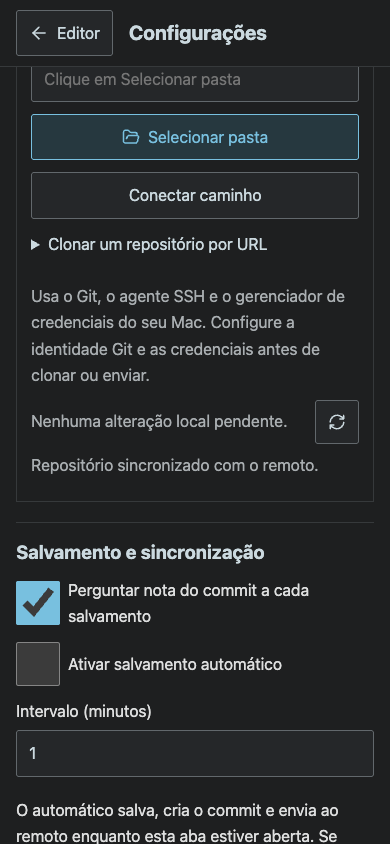
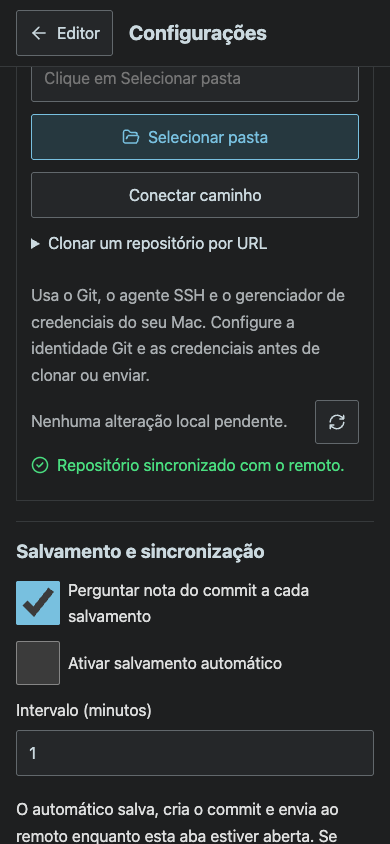
feat: show a positive verified repository connection status

diff --git a/src/main.tsx b/src/main.tsx
@@ -4,7 +4,7 @@ import {canChooseFolder, chooseDeviceFolder, folderLabel, disconnectFolder, auth
 import {browserMode} from './lib/browserStore';
 import { StrictMode, useCallback, useEffect, useRef, useState } from 'react';
 import { createRoot } from 'react-dom/client';
-import { FolderGit2, FolderOpen, Save, Upload, Sun, Moon, FilePlus2, Settings, X, Download, CloudOff, PanelLeft, FileText, RefreshCw, Search, Pin, PinOff, ArrowLeft } from 'lucide-react';
+import { FolderGit2, FolderOpen, Save, Upload, Sun, Moon, FilePlus2, Settings, X, Download, CloudOff, PanelLeft, FileText, RefreshCw, Search, Pin, PinOff, ArrowLeft, CircleCheck, CircleAlert } from 'lucide-react';
 import { MarkdownWorkbench } from './components/Markdown/MarkdownWorkbench';
 import { NoteThumbnail } from './NoteThumbnail';
 import { noteGroup, shortNoteDate } from './lib/noteDates';
@@ -174,6 +174,7 @@ function App() {
   useEffect(() => {if(settingsOpen)settingsTitle.current?.focus();else if(settingsWasOpen.current)document.querySelector<HTMLButtonElement>('button[aria-label="Configurações"]')?.focus();settingsWasOpen.current=settingsOpen;},[settingsOpen]);
   useEffect(() => {const showNotes=()=>setNotesOpen(true);window.addEventListener('scriba:show-notes',showNotes);return()=>window.removeEventListener('scriba:show-notes',showNotes);}, []);
   const [repository, setRepository] = useState<RepositoryInfo>({ repository: null, branch: '', status: '' });
+  const [repositoryConnected, setRepositoryConnected] = useState(false);
   const [directory, setDirectory] = useState('');
   const [url, setUrl] = useState('');
   const [destination, setDestination] = useState('');
@@ -209,7 +210,7 @@ function App() {
   const [commitNoteOpen, setCommitNoteOpen] = useState(false);
   const [commitTarget, setCommitTarget] = useState<'document' | 'repository'>('document');
   const [repositorySyncing, setRepositorySyncing] = useState(false);
-  const [repositorySyncFeedback, setRepositorySyncFeedback] = useState('');
+  const [repositorySyncFeedback, setRepositorySyncFeedback] = useState<{message: string; state: 'syncing' | 'success' | 'error'} | null>(null);
   const [commitNote, setCommitNote] = useState('');
   const [pendingSync, setPendingSync] = useState(false);
   const operationLock = useRef(false);
@@ -234,7 +235,10 @@ function App() {
   }
   async function refresh() {
     if(browserMode && !githubSelection() && await folderLabel()) await api('folder/import',{});
-    const info = await api<RepositoryInfo>('repository'); setRepository(info);
+    let info: RepositoryInfo;
+    try { info = await api<RepositoryInfo>('repository'); }
+    catch (cause) { setRepositoryConnected(false); throw cause; }
+    setRepository(info); setRepositoryConnected(!!info.repository);
     setFiles(info.repository ? await api<string[]>('files') : []);
     if (info.repository) await refreshLibrary(); else { setRecentNotes([]); setPinnedNotes([]); }
     return info;
@@ -261,7 +265,7 @@ function App() {
           setError('O rascunho pertence a outro repositório. Reconecte a pasta nas configurações antes de salvar.');
           setSettingsOpen(true);
         } else {
-          setRepository(info); setFiles(info.repository ? await api<string[]>('files') : []);
+          setRepository(info); setRepositoryConnected(!!info.repository); setFiles(info.repository ? await api<string[]>('files') : []);
           if (info.repository) await refreshLibrary(); else { setRecentNotes([]); setPinnedNotes([]); }
           if (!info.repository) setSettingsOpen(true);
         }
@@ -269,6 +273,7 @@ function App() {
         setPreferences(saved); setPreferenceDraft(saved); setOffline(false);
       } catch (cause) {
         if (!active) return;
+        setRepositoryConnected(false);
         if (cause instanceof LocalApiError) { setError(cause.message); setSettingsOpen(true); setOffline(false); }
         else setOffline(true);
         if (restored) setNotice('Rascunho recuperado no navegador. Continue editando offline; o Git sincroniza quando o aplicativo local voltar.');
@@ -377,13 +382,13 @@ function App() {
     else setError(`Arquivo salvo localmente. ${result.stage === 'commit' ? 'Commit pendente' : 'Push pendente'}: ${result.error} Use Salvar novamente para tentar sincronizar.`);
   }
   async function syncRepository(message: string) {
-    setRepositorySyncing(true); setRepositorySyncFeedback('Sincronizando…');
+    setRepositorySyncing(true); setRepositorySyncFeedback({message: 'Sincronizando…', state: 'syncing'});
     try {
       const result = await api<Pick<SaveResult, 'synced' | 'stage' | 'error'>>('sync', { repository: repository.repository, message });
       await refresh();
-      setRepositorySyncFeedback(result.synced ? 'Repositório sincronizado com o remoto.' : `${result.stage === 'commit' ? 'Commit' : 'Envio'} pendente: ${result.error}`);
+      setRepositorySyncFeedback({message: result.synced ? 'Repositório sincronizado com o remoto.' : `${result.stage === 'commit' ? 'Commit' : 'Envio'} pendente: ${result.error}`, state: result.synced ? 'success' : 'error'});
     } catch (cause) {
-      setRepositorySyncFeedback(cause instanceof Error ? cause.message : 'Não foi possível sincronizar. Tente novamente.');
+      setRepositorySyncFeedback({message: cause instanceof Error ? cause.message : 'Não foi possível sincronizar. Tente novamente.', state: 'error'});
     } finally { setRepositorySyncing(false); }
   }
   function requestRepositorySync() {
@@ -438,12 +443,12 @@ function App() {
     {browserMode && <section className="storage-settings" aria-label="Pasta de notas"><h3>Onde guardar suas notas</h3><p>{deviceFolder ? `Pasta selecionada: ${deviceFolder}` : 'Armazenamento privado neste navegador'}</p>{githubSelection() && <p>Repositório: <a href={`https://github.com/${githubSelection()!.fullName}`} target="_blank" rel="noopener noreferrer">{githubSelection()!.fullName}</a></p>}{canChooseFolder() ? <div className="settings-actions"><button disabled={busy} onClick={() => {if(!discard())return;void run(async () => {const label=await chooseDeviceFolder();setGitHubSelection(null);resetDocument();setDeviceFolder(label);const count=await importDeviceNotes();await syncDeviceNotes();setSettingsOpen(false);setNotesOpen(true);setNotice(`${count} notas carregadas. Pasta: ${label}.`);});}}><FolderOpen size={18}/>Selecionar pasta em Files</button>{deviceFolder && <><button disabled={busy} onClick={() => void run(async () => {await authorizeDeviceFolder();const count=await importDeviceNotes();await syncDeviceNotes();setSettingsOpen(false);setNotesOpen(true);setNotice(`Pasta lida: ${count} notas disponíveis na lista.`);})}>Autorizar pasta e carregar notas</button><button onClick={() => void run(async () => {await disconnectFolder();setGitHubSelection(null);resetDocument();await refresh();setDeviceFolder('');})}>Usar somente navegador</button></>}</div> : <p>Este navegador não oferece acesso de gravação a pastas do Files. Suas notas ficam neste navegador; use Baixar pacote para salvar um ZIP em Files. No iPhone/iPad, o acesso contínuo a pastas exige um aplicativo nativo.</p>}<p>Escolha a pasta principal: o Scriba cria uma subpasta scriba e copia as notas salvas e imagens para ela. Rascunhos continuam protegidos no navegador. Arquivos alterados fora do editor não são sobrescritos. GitHub está disponível na seção acima; Google Drive está previsto.</p></section>}
     {browserMode && <section className="repository" aria-label="Sincronização com GitHub e Git"><h3><FolderGit2 size={20}/> GitHub / repositório Git</h3><p>Use um repositório local ou clone uma URL Git. Na versão local, cada salvamento grava o arquivo, cria um commit e faz push usando suas credenciais.</p><div className="settings-actions"><a className="settings-action" href="http://127.0.0.1:43127/" target="_blank" rel="noopener noreferrer">Abrir editor local com Git</a><a className="settings-action" href="https://github.com/ab-orbit/ab-markdow-editor#readme" target="_blank" rel="noopener noreferrer">Instalar no Mac</a></div><p>Abra o aplicativo Scriba no Mac antes de conectar. No editor local, abra Configurações para selecionar a pasta ou clonar o repositório. As notas deste site continuam separadas; use Baixar pacote e importe no editor local para transferi-las.</p><p>No celular e tablet, use a seção GitHub acima para conectar sua conta e selecionar um repositório. O armazenamento no navegador e a pasta do dispositivo continuam como alternativas.</p></section>}
     {!browserMode && <details className="repository" open={!repository.repository || undefined}>
-      <summary><FolderGit2 size={20}/><span>{repository.repository || 'Configurar repositório'}{repository.branch && ` · ${repository.branch}`}</span></summary>
+      <summary className="repository-summary"><span className="repository-summary-content"><span className="repository-path"><FolderGit2 size={20}/><span>{repository.repository || 'Configurar repositório'}{repository.branch && ` · ${repository.branch}`}</span></span>{repository.repository && <span className="connection-status" data-state={repositoryConnected ? 'connected' : 'pending'}>{repositoryConnected ? <CircleCheck size={16} aria-hidden="true"/> : <CircleAlert size={16} aria-hidden="true"/>}{repositoryConnected ? 'Pasta conectada' : draftReady ? 'Conexão indisponível' : 'Verificando conexão…'}</span>}</span></summary>
       {repository.githubUrl && <p>Repositório: <a href={repository.githubUrl} target="_blank" rel="noopener noreferrer">{repository.githubUrl.replace('https://github.com/', '')}</a></p>}
       <fieldset disabled={busy}><form onSubmit={event => { event.preventDefault(); if (!discard()) return; void run(async () => { const info = await api<RepositoryInfo>('connect', { directory }); setRepository(info); resetDocument(); await refresh(); setSettingsOpen(false); setNotice('Repositório conectado.'); }); }}><label>Pasta local do repositório<input placeholder="Clique em Selecionar pasta" value={directory} onChange={event => setDirectory(event.target.value)} required/></label><button type="button" className="primary" onClick={() => void chooseRepository()}><FolderOpen size={18}/>Selecionar pasta</button><button>Conectar caminho</button></form>
       <details><summary>Clonar um repositório por URL</summary><form onSubmit={event => { event.preventDefault(); if (!discard()) return; void run(async () => { const info = await api<RepositoryInfo>('clone', { url, destination }); setRepository(info); resetDocument(); await refresh(); setSettingsOpen(false); setNotice('Repositório clonado e conectado.'); }); }}><label>URL HTTPS ou SSH<input placeholder="git@github.com:usuario/repositorio.git" value={url} onChange={event => setUrl(event.target.value)} required/></label><label>Nova pasta local (caminho absoluto)<input placeholder="/Users/seu-nome/Documentos/meu-repo" value={destination} onChange={event => setDestination(event.target.value)} required/></label><button type="button" onClick={() => void chooseCloneDestination()}><FolderOpen size={18}/>Selecionar onde clonar</button><button>Clonar e conectar</button></form></details>
       <p>Usa o Git, o agente SSH e o gerenciador de credenciais do seu Mac. Configure a identidade Git e as credenciais antes de clonar ou enviar.</p>
-      {repository.repository && <><div className="repository-sync"><p aria-label="Alterações no repositório">{repository.status ? describeRepositoryChanges(repository.status) : 'Nenhuma alteração local pendente.'}</p><button type="button" disabled={busy} aria-label="Sincronizar repositório" title="Sincronizar todas as alterações locais: criar commit e enviar ao remoto" aria-busy={repositorySyncing} onClick={requestRepositorySync}><RefreshCw size={18}/></button></div>{repositorySyncFeedback && <p role="status">{repositorySyncFeedback}</p>}</>}</fieldset>
+      {repository.repository && <><div className="repository-sync"><p aria-label="Alterações no repositório">{repository.status ? describeRepositoryChanges(repository.status) : 'Nenhuma alteração local pendente.'}</p><button type="button" disabled={busy} aria-label="Sincronizar repositório" title="Sincronizar todas as alterações locais: criar commit e enviar ao remoto" aria-busy={repositorySyncing} onClick={requestRepositorySync}><RefreshCw size={18}/></button></div>{repositorySyncFeedback && <p role="status" className="repository-sync-feedback" data-state={repositorySyncFeedback.state}>{repositorySyncFeedback.state === 'success' ? <CircleCheck size={18} aria-hidden="true"/> : repositorySyncFeedback.state === 'error' ? <CircleAlert size={18} aria-hidden="true"/> : <RefreshCw size={18} aria-hidden="true"/>}<span>{repositorySyncFeedback.message}</span></p>}</>}</fieldset>
     </details>}
     <section className="save-preferences" aria-label="Preferências de salvamento">
       <h3>Salvamento e sincronização</h3>

diff --git a/src/style.css b/src/style.css
@@ -207,3 +207,21 @@ body { font-family: var(--font-ui); }
 .repository-sync { display: flex; align-items: flex-start; gap: 12px; margin-top: 12px; }
 .repository-sync p { flex: 1; margin: 8px 0; min-width: 0; white-space: pre-wrap; overflow-wrap: anywhere; }
 .repository-sync button { flex: 0 0 44px; width: 44px; padding: 9px; }
+
+/* Connection belongs to the selected folder; sync feedback describes the last push. */
+.repository-summary-content { display: inline-grid; grid-template-columns: minmax(0, 1fr) auto; align-items: center; gap: 12px; width: calc(100% - 24px); vertical-align: middle; padding: 2px 0; }
+.repository-path { display: flex; align-items: flex-start; gap: 10px; min-width: 0; }
+.repository-path > svg { flex-shrink: 0; margin: 3px 0 0; }
+.repository-path > span { overflow-wrap: anywhere; }
+.repository .connection-status { display: inline-flex; align-items: center; gap: 6px; width: fit-content; max-width: 100%; padding: 4px 8px; border-radius: var(--radius-sm); font-size: 14px; line-height: 1.5; font-weight: 600; color: var(--status-ok); background: var(--status-ok-dim); }
+.repository .connection-status[data-state="pending"] { color: var(--status-warn); background: var(--status-warn-dim); }
+.repository .connection-status svg { flex-shrink: 0; margin: 0; color: inherit; }
+.repository .repository-sync-feedback { display: flex; align-items: flex-start; gap: 8px; overflow-wrap: anywhere; }
+.repository-sync-feedback > svg { flex-shrink: 0; margin-top: 4px; }
+.repository .repository-sync-feedback[data-state="success"] { color: var(--status-ok); }
+.repository .repository-sync-feedback[data-state="error"] { color: var(--status-warn); }
+.repository .repository-sync-feedback[data-state="syncing"] { color: var(--cyan); }
+@media (max-width: 600px) {
+ .repository-summary-content { grid-template-columns: minmax(0, 1fr); gap: 8px; }
+ .repository-summary-content .connection-status { grid-row: 1; }
+}

diff --git a/src/GitHubSettings.tsx b/src/GitHubSettings.tsx
@@ -1,5 +1,5 @@
 import { useEffect, useId, useState } from "react";
-import { FolderGit2, RefreshCw } from "lucide-react";
+import { FolderGit2, RefreshCw, CircleCheck } from "lucide-react";
 import {
   githubJson,
   githubSelection,
@@ -147,7 +147,7 @@ export function GitHubSettings({
       {status?.connected && (
         <>
           <p>
-            Conectado como <strong>{status.user?.login}</strong>
+            <span className="connection-status" data-state="connected"><CircleCheck size={16} aria-hidden="true"/>Conectado como <strong>{status.user?.login}</strong></span>
             {status.selection &&
               ` · ${status.selection.fullName}/${status.selection.folder}`}
           </p>

diff --git a/src/tokens.css b/src/tokens.css
@@ -719,8 +719,9 @@
      somem — #4ade80 dá 1.57:1, #f59e0b dá 2.15:1, #ef4444 dá 3.76:1 e
      #3b82f6 dá 3.68:1, todos abaixo dos 4.5:1 de texto normal. Mesmos valores
      dos acentos claros acima, já medidos. */
-  --status-ok:       #15803d;
-  --status-ok-dim:   rgba(21, 128, 61, 0.12);
+  /* Keep small success labels above 4.5:1 on their tinted backgrounds. */
+  --status-ok:       #116b32;
+  --status-ok-dim:   rgba(17, 107, 50, 0.12);
   --status-warn:     #a14a07;
   --status-warn-dim: rgba(161, 74, 7, 0.12);
   --status-alert:    #b91c1c;

diff --git a/README.md b/README.md
@@ -43,7 +43,7 @@ As duas opções vêm desativadas. As preferências ficam no Mac e sobrevivem ao
 
 Se o commit ou push falhar, o editor preserva a gravação local e mostra a etapa pendente. Salvar novamente tenta sincronizar usando a versão já gravada; uma falha de push não duplica o commit. O automático também tenta novamente no próximo intervalo. O Git continua respeitando hooks, identidade e credenciais locais; alterações já preparadas por outra ferramenta não entram no commit do editor. A execução do intervalo depende da aba aberta e pode ser adiada pelo navegador quando ela estiver suspensa.
 
-Nas configurações do repositório local, o ícone **Sincronizar repositório**, ao lado das alterações, cria um commit com todos os arquivos pendentes da pasta e faz push. Ele também tenta enviar commits já criados quando um push anterior falhou, sem duplicá-los. Respeita a preferência de perguntar a nota do commit, os arquivos ignorados pelo Git e as alterações preparadas por outras ferramentas. A ação usa os arquivos já gravados no disco; o botão Salvar do editor grava o documento em edição.
+Nas configurações do repositório local, o check verde **Pasta conectada** confirma o acesso à pasta selecionada. O resultado do envio ao remoto aparece junto ao botão de sincronização. O ícone **Sincronizar repositório**, ao lado das alterações, cria um commit com todos os arquivos pendentes da pasta e faz push. Ele também tenta enviar commits já criados quando um push anterior falhou, sem duplicá-los. Respeita a preferência de perguntar a nota do commit, os arquivos ignorados pelo Git e as alterações preparadas por outras ferramentas. A ação usa os arquivos já gravados no disco; o botão Salvar do editor grava o documento em edição.
 
 ## Editor
 
